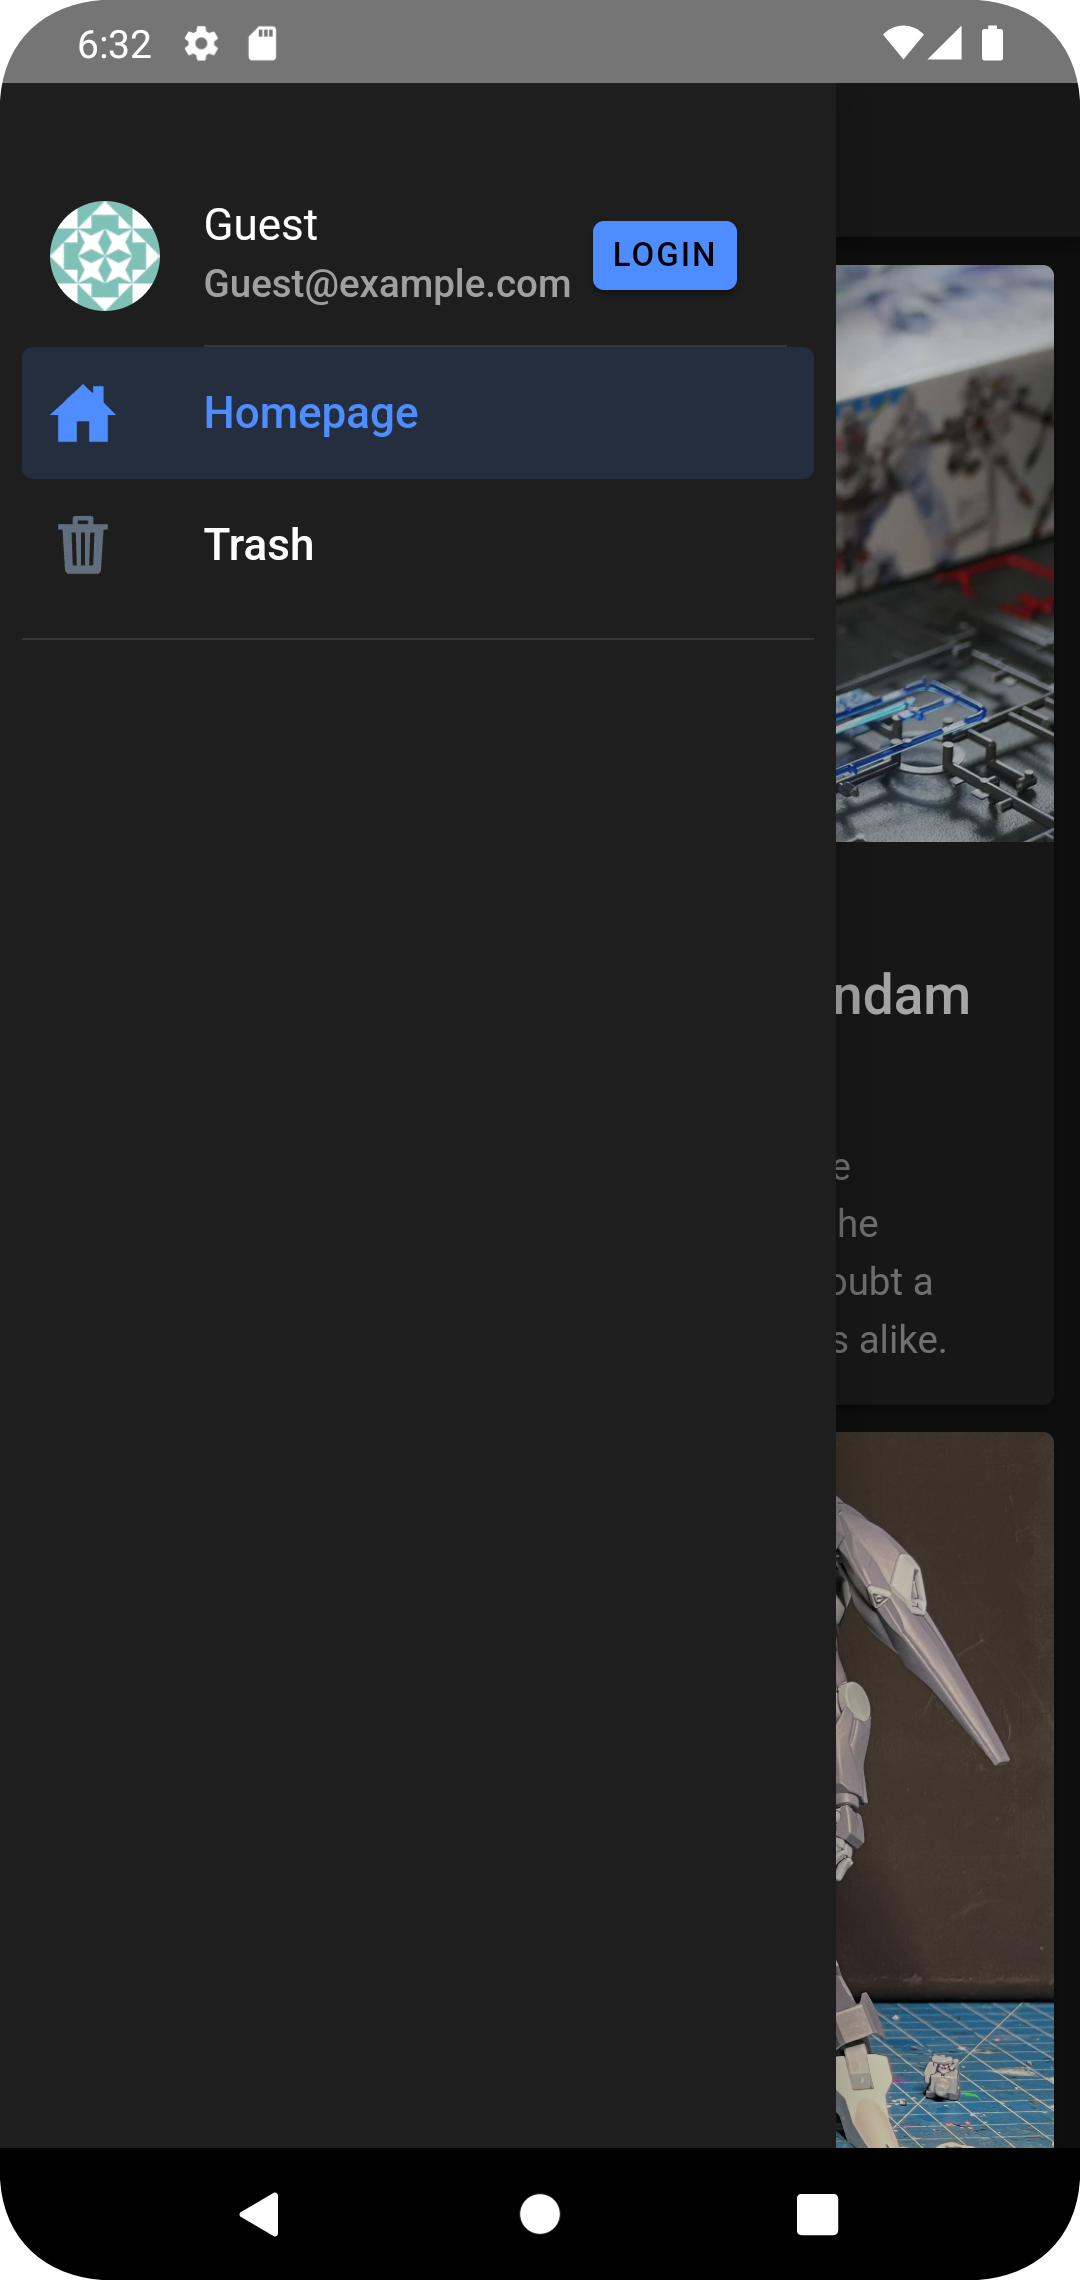
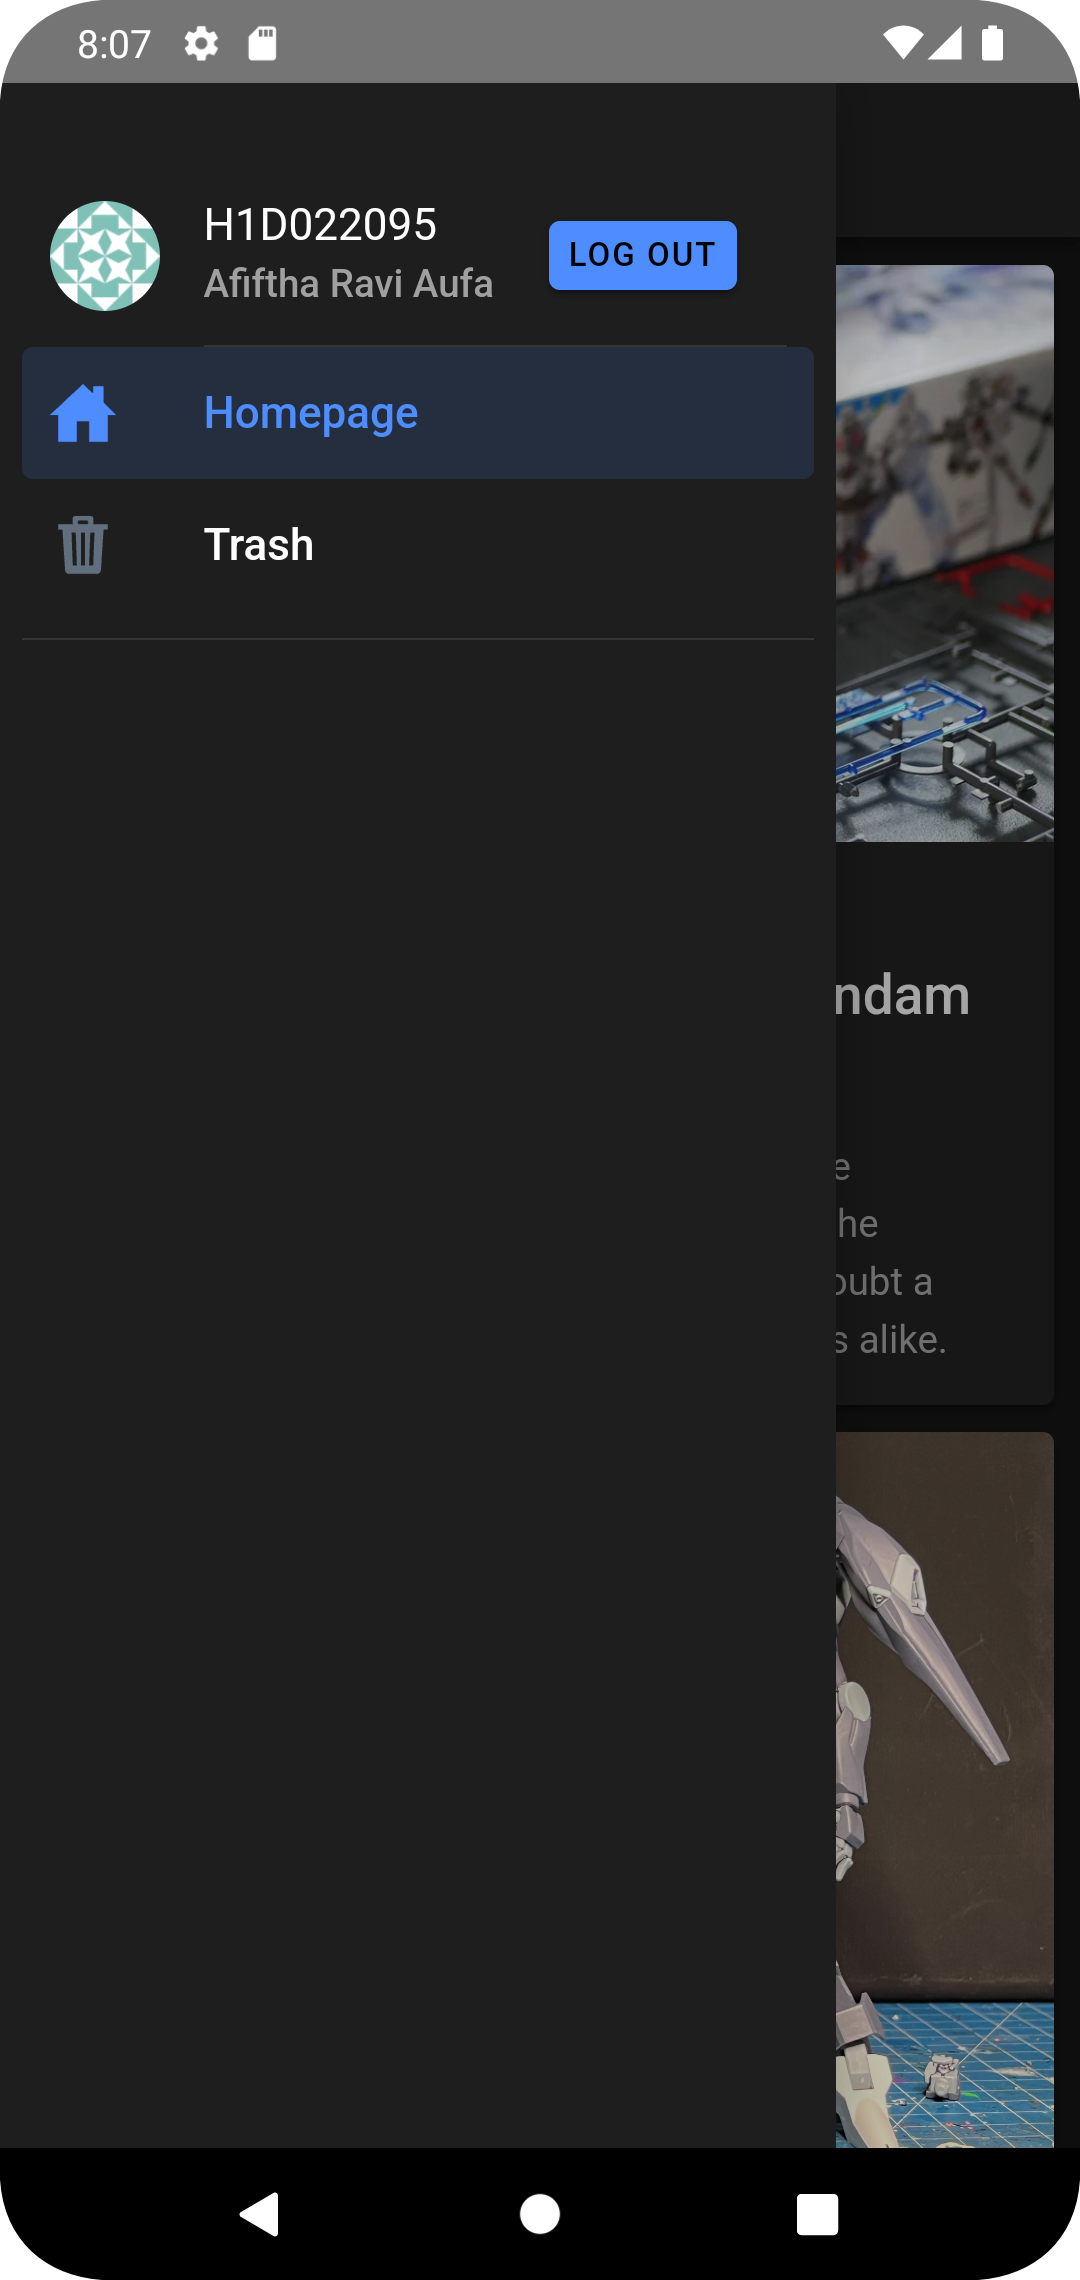
Done, lupa nambah Nama dan NIM

Changed region(s): [[0.1833, 0.0934, 0.4583, 0.1557], [0.4889, 0.0934, 0.6722, 0.1557]]

diff --git a/src/App.vue b/src/App.vue
@@ -9,10 +9,10 @@
                 <img src="https://www.gravatar.com/avatar?d=identicon" />
               </ion-avatar>
               <ion-label>
-                <h2>Guest</h2>
-                <p>Guest@example.com</p>
+                <h2>H1D022095</h2>
+                <p>Afiftha Ravi Aufa</p>
               </ion-label>
-              <ion-button @click="$router.push('/login')">Login</ion-button>
+              <ion-button @click="$router.push('/login')">Log Out</ion-button>
             </ion-item>
 
             <ion-menu-toggle :auto-hide="false" v-for="(p, i) in appPages" :key="i">
